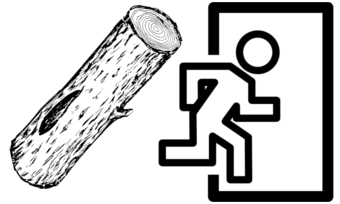
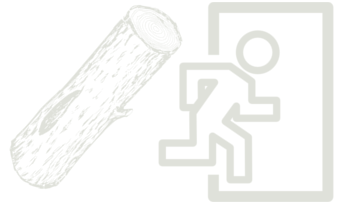
login page begining

Changed region(s): [[0.4412, 0.0, 1.0, 1.0], [0.0294, 0.0, 0.5588, 0.9412]]

diff --git a/public/assets/css/style.css b/public/assets/css/style.css
@@ -13,9 +13,36 @@ body, html {
 }
 
 .login-link{
-  margin-left:25%;
-  text-align: center;
   color: #E0E2DB;
+  height:200px;
+  width:50%;
+  margin: auto;
+  background-position: center;
+  background-repeat: no-repeat;
+  background-size: contain;
+
+}
+
+#signin-link{
+  background-image: url(../../assets/images/signup.png);
+}
+#login-link{
+  background-image: url(../../assets/images/login.png);
+}
+
+#signin-link:hover{
+  background-image: url(../../assets/images/signup-hover.png) !important;
+}
+
+#login-link:hover{
+  background-image: url(../../assets/images/login-hover.png) !important;
+}
+
+.login-text{
+  position: absolute;
+  bottom:-20px;
+  width:50%;
+  text-align: center;
 }
 
 #blue-and-CFCFEA{

diff --git a/public/view/template/homepage.php b/public/view/template/homepage.php
@@ -6,16 +6,20 @@ require_once(VIEW_DIR . 'head_logged_out.php');
 
 
 <div class="col-lg-6">
-  <a class="login-link" href="?route=login">
-    <img src="assets/images/signup.png">
-    <p>Sign Up</p>
+  <a href="?route=login">
+    <div id="signin-link" class="login-link">
+    <!-- <img src="assets/images/signup.png"> -->
+    <p class="login-text">Sign Up</p>
+    </div>
   </a>
 </div>
 
 <div class="col-lg-6">
-  <a class="login-link" href="?route=signin">
-    <img src="assets/images/login.png">
-    <p>Log In</p>
+  <a href="?route=signin">
+    <div  id="login-link" class="login-link">
+    <!-- <img src="assets/images/login.png"> -->
+    <p class="login-text">Log In</p>
+    </div>
   </a>
 </div>
 <div class="clearfix"></div>
